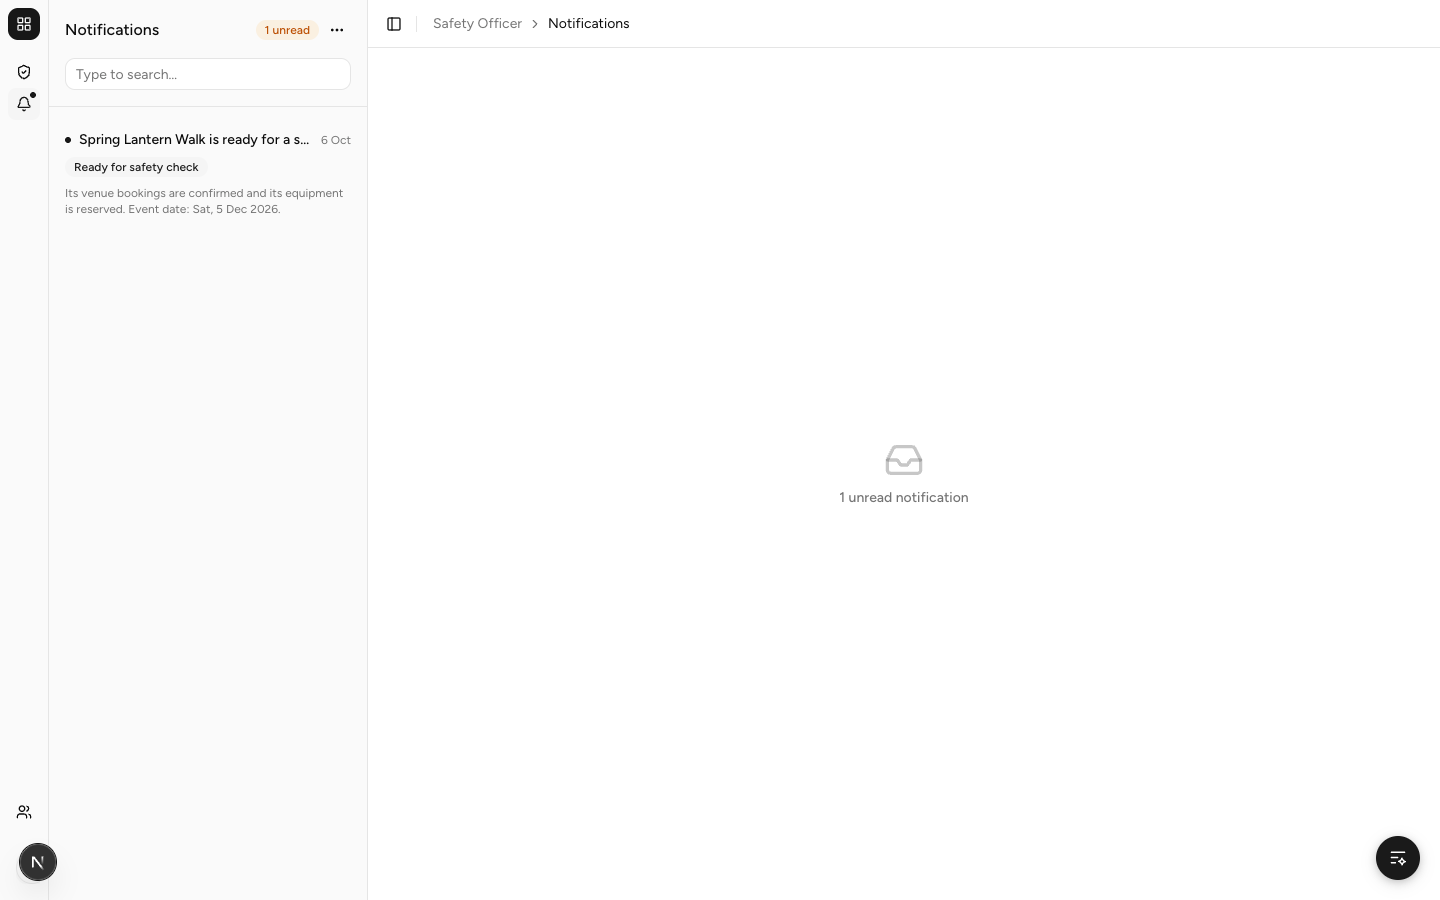
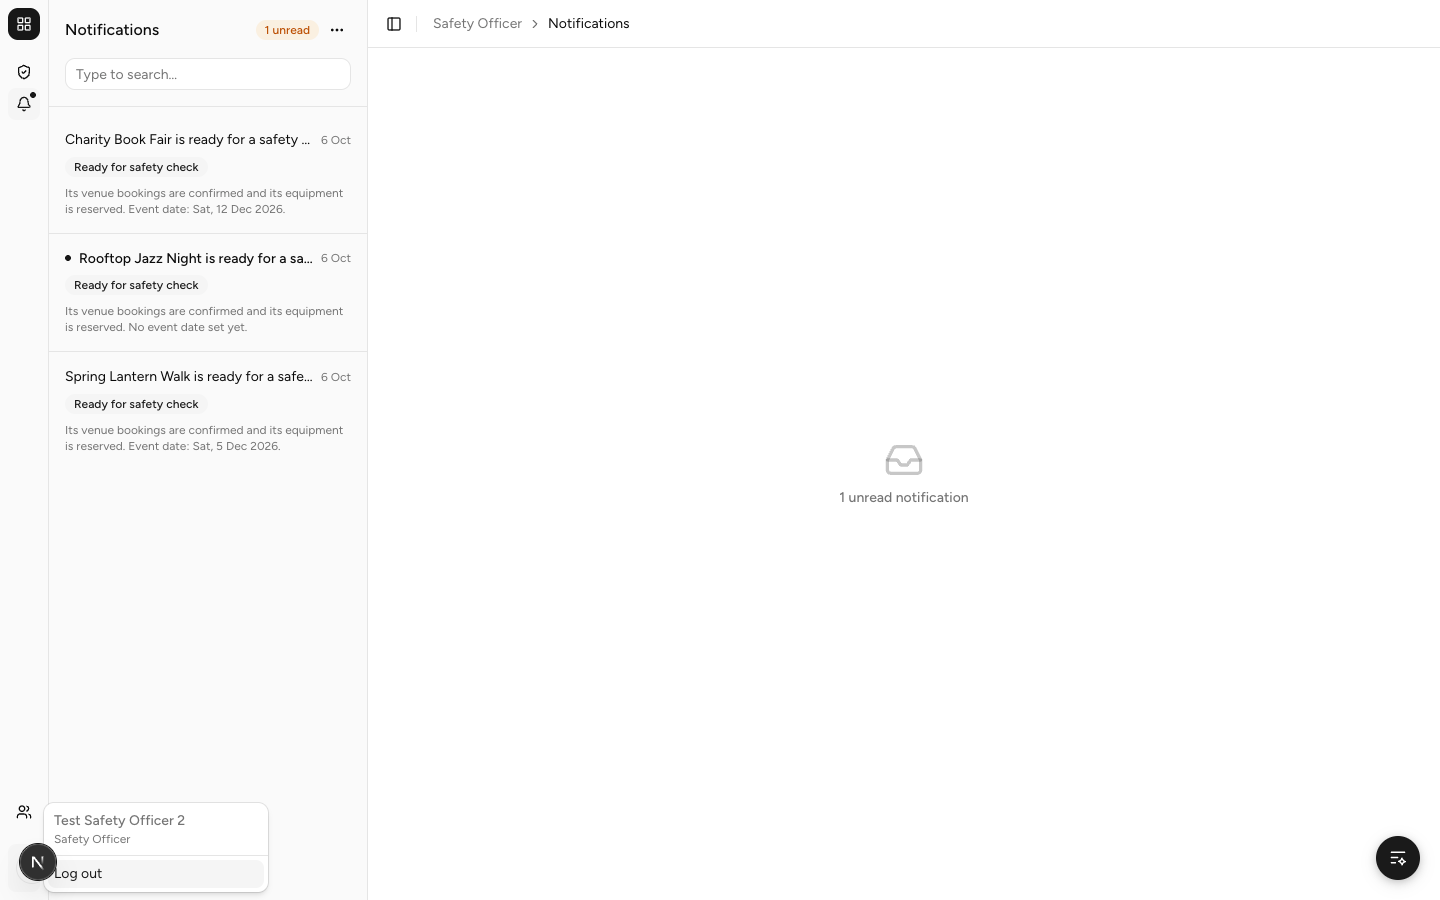
Show whose inbox the second SPM-262 screenshot is
It was byte-identical to the first Safety Officer's, so it proved
nothing; retaken with the account menu naming Test Safety Officer 2.

diff --git a/docs/testing/SAFETY_CHECK_NOTIFICATION_MANUAL_TESTS.md b/docs/testing/SAFETY_CHECK_NOTIFICATION_MANUAL_TESTS.md
@@ -172,6 +172,8 @@ AC1, AC3, AC4, AC5.
 - [`TC-SAFETYNOTE-001_step2-first-booking-approved.png`](../screenshots/2026-10-06_TC-SAFETYNOTE-001_step2-first-booking-approved.png)
 - [`TC-SAFETYNOTE-001_step4-safety-inbox.png`](../screenshots/2026-10-06_TC-SAFETYNOTE-001_step4-safety-inbox.png)
 - [`TC-SAFETYNOTE-001_step5-second-safety-officer-inbox.png`](../screenshots/2026-10-06_TC-SAFETYNOTE-001_step5-second-safety-officer-inbox.png)
+  — retaken after TC-SAFETYNOTE-004 with the account menu open, so it names Test
+  Safety Officer 2; its read states are TC-SAFETYNOTE-004's.
 
 **Status:** [x] Pass [ ] Fail
 
